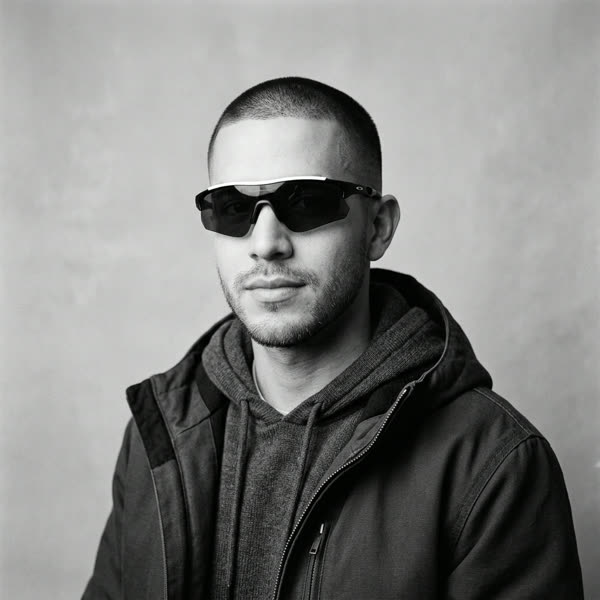
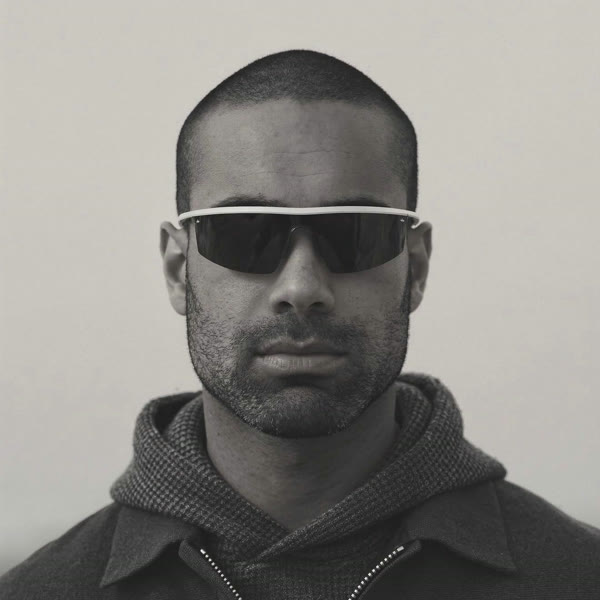
Ivan Flores portrait replaced with the exact provided photo
The pasted reference was recovered from the clipboard at full resolution, center-cropped to a square on the face and swapped in for the generated stand-in across header, sidebar, menu and profile.

diff --git a/index.html b/index.html
@@ -8,7 +8,7 @@
 <link rel="preconnect" href="https://fonts.googleapis.com">
 <link rel="preconnect" href="https://fonts.gstatic.com" crossorigin>
 <link href="https://fonts.googleapis.com/css2?family=Geist:wght@300;400;500;600;700;800&family=Geist+Mono:wght@400;500&display=swap" rel="stylesheet">
-<link rel="stylesheet" href="styles.css?v=0830b">
+<link rel="stylesheet" href="styles.css?v=0830c">
 </head>
 <body>
 <div class="shell">
@@ -84,14 +84,14 @@
   </div>
 
 </div>
-<script src="data.js?v=0830b"></script>
-<script src="i18n.js?v=0830b"></script>
+<script src="data.js?v=0830c"></script>
+<script src="i18n.js?v=0830c"></script>
 <script src="vendor/anime.min.js"></script>
-<script src="charts.js?v=0830b"></script>
-<script src="animations.js?v=0830b"></script>
-<script src="components.js?v=0830b"></script>
-<script src="app.js?v=0830b"></script>
-<script src="live.js?v=0830b"></script>
+<script src="charts.js?v=0830c"></script>
+<script src="animations.js?v=0830c"></script>
+<script src="components.js?v=0830c"></script>
+<script src="app.js?v=0830c"></script>
+<script src="live.js?v=0830c"></script>
 <script>
 /* QA: ?rail=1 abre con el sidebar colapsado a iconos */
 if (location.search.includes("rail=1")) document.querySelector(".shell").classList.add("collapsed");

diff --git a/login.html b/login.html
@@ -6,7 +6,7 @@
 <title>CITY 0 OPS · Login</title>
 <link rel="icon" href="assets/logo-cz-mark.png">
 <link href="https://fonts.googleapis.com/css2?family=Geist:wght@300;400;500;600;700;800&family=Geist+Mono:wght@400;500&display=swap" rel="stylesheet">
-<link rel="stylesheet" href="styles.css?v=0830b">
+<link rel="stylesheet" href="styles.css?v=0830c">
 <style>
   .lg { display: grid; grid-template-columns: 1fr 1.2fr; min-height: 100dvh; }
   .lgl { position: relative; overflow: hidden; background: #000; display: flex; flex-direction: column; align-items: center; justify-content: center; gap: 14px; }
